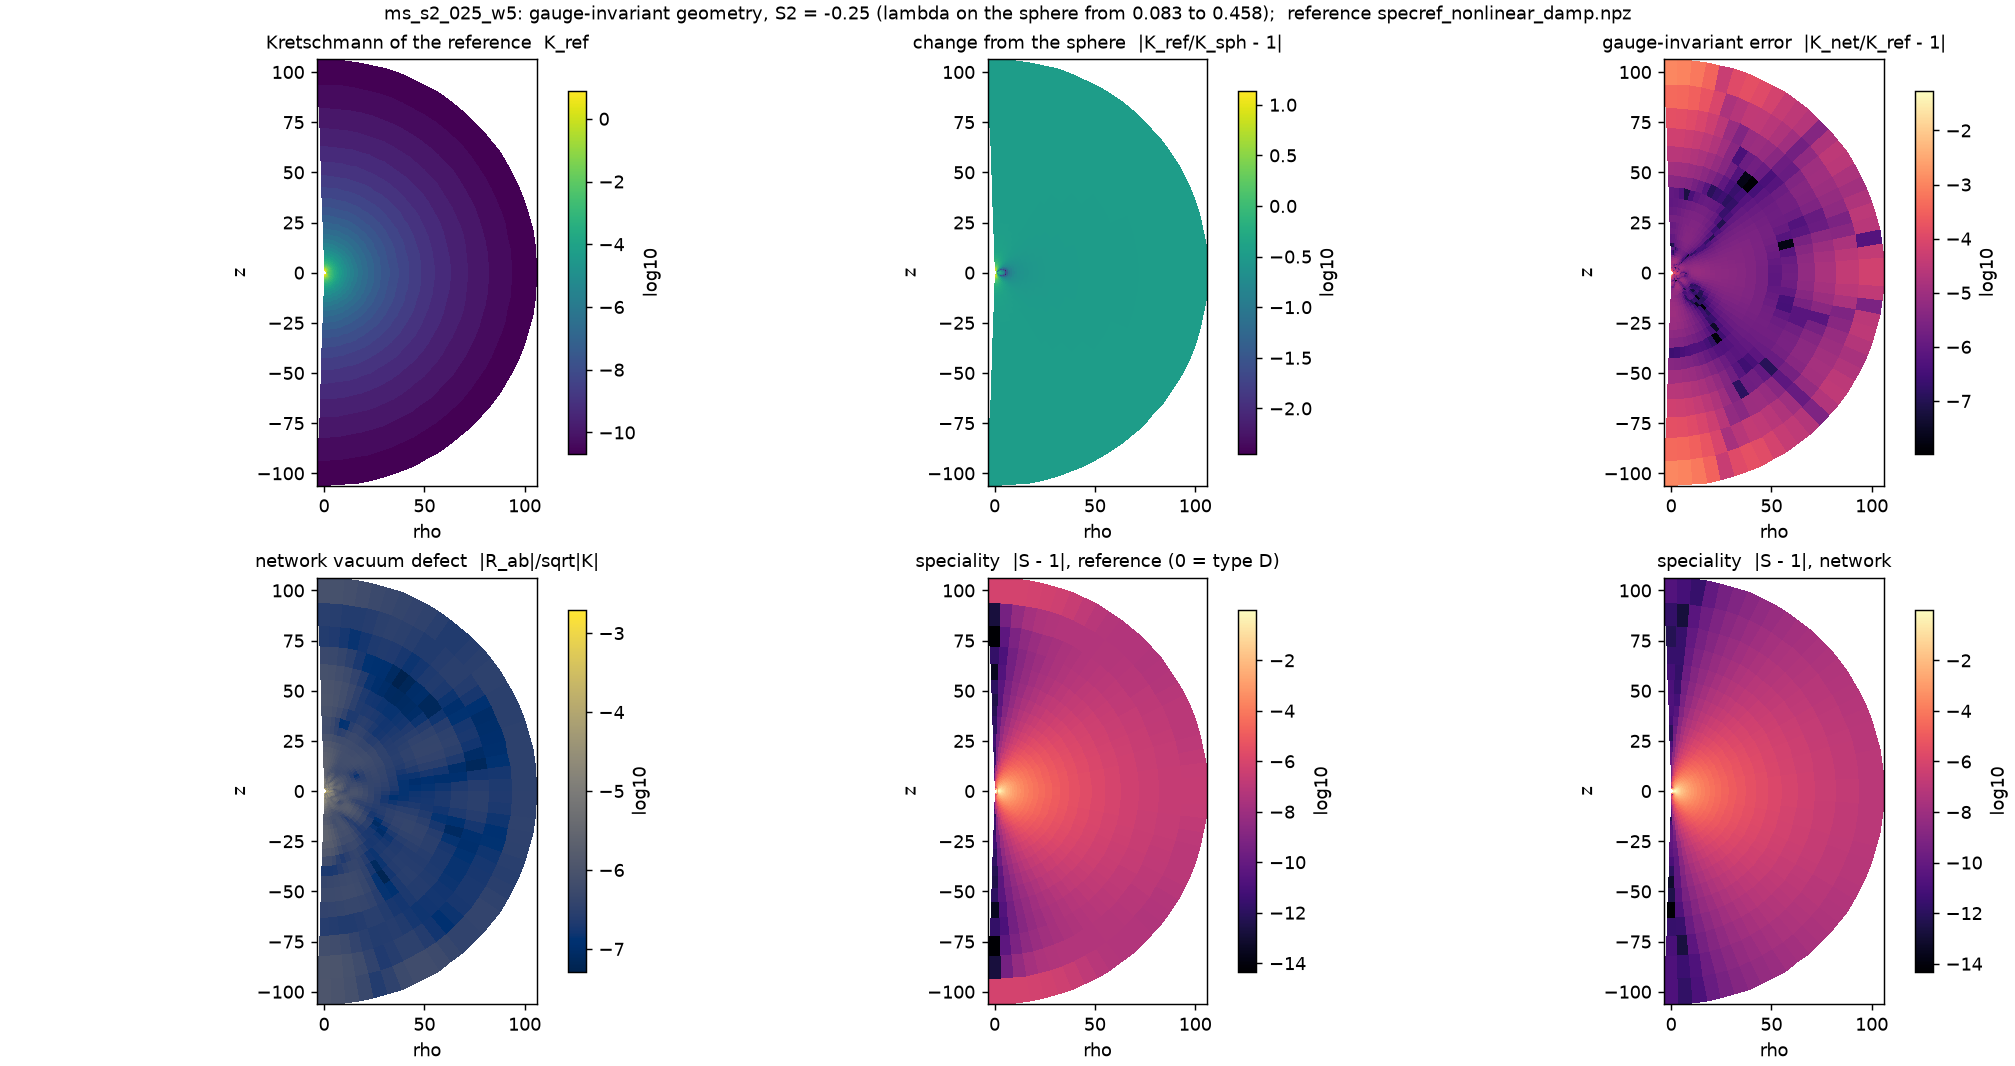
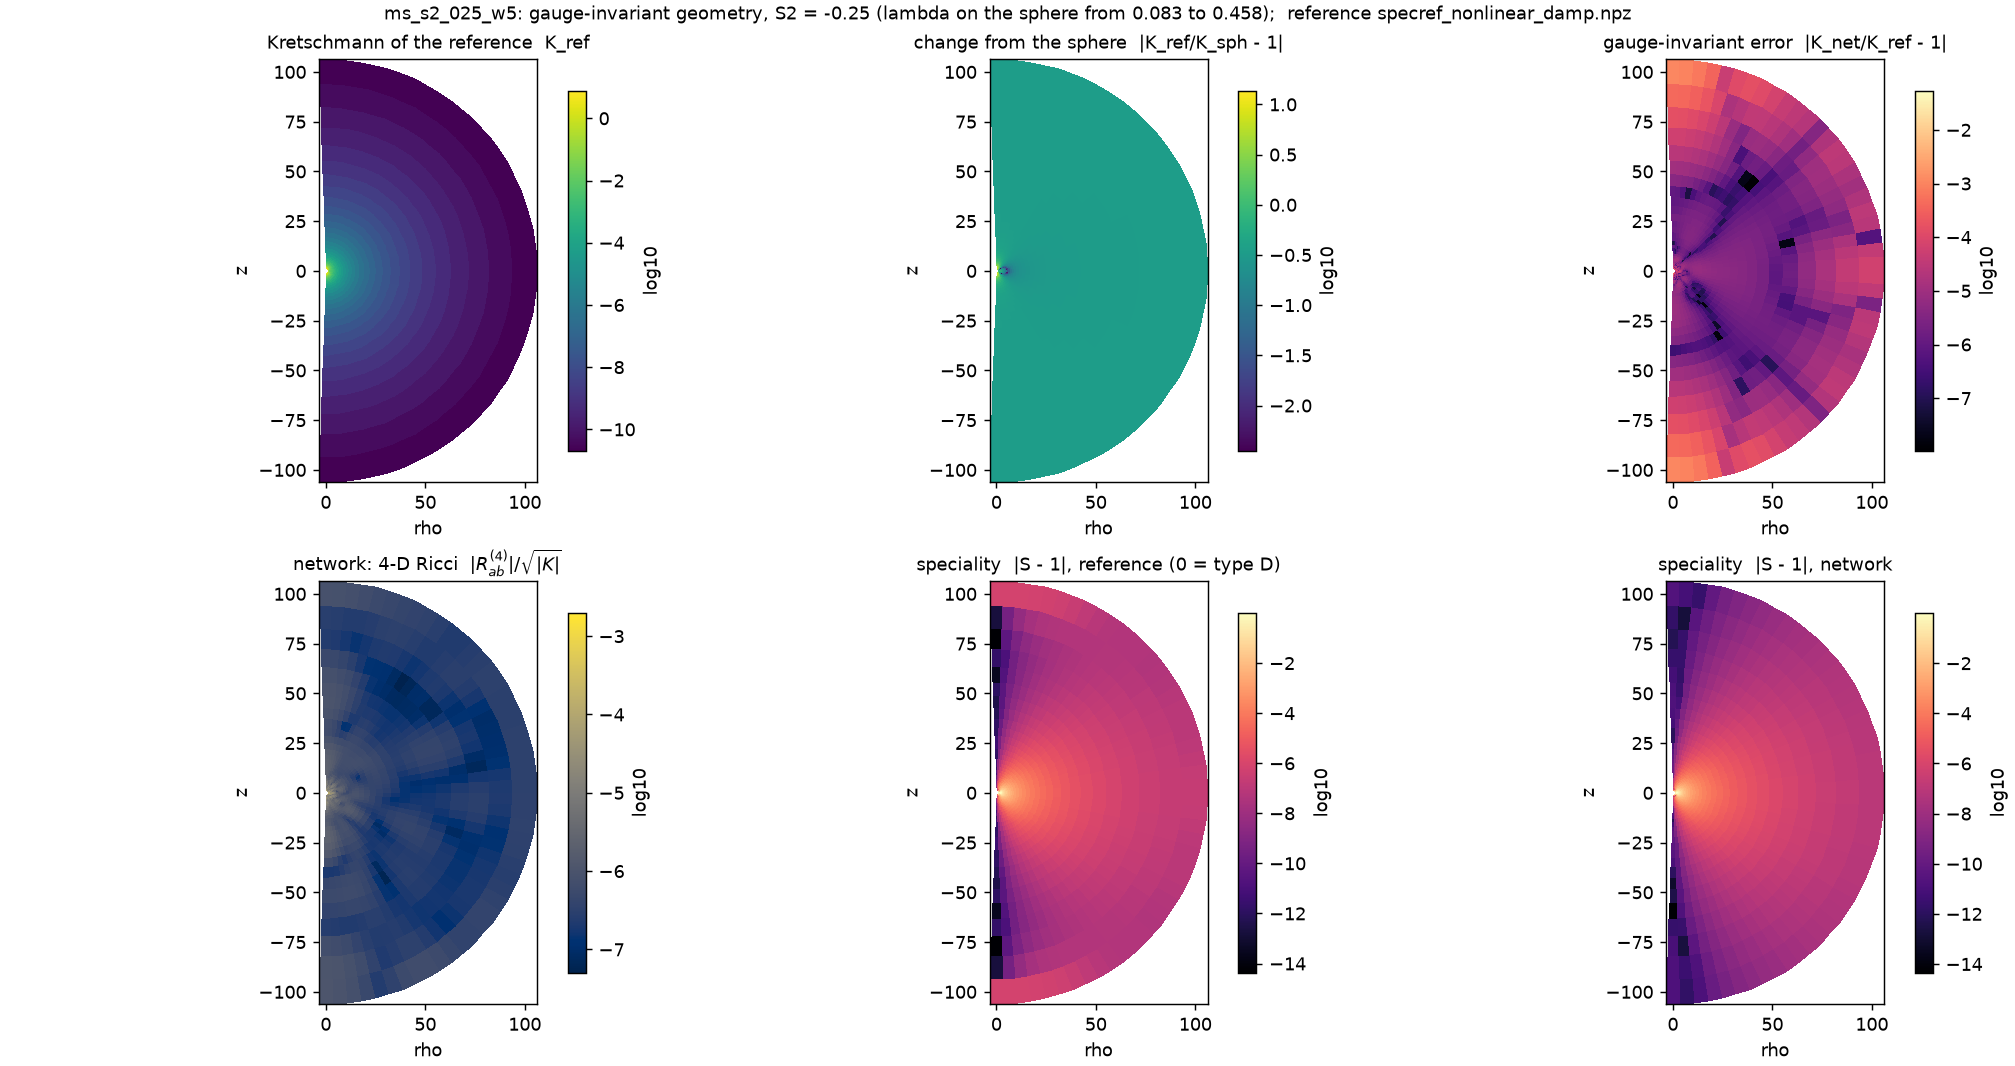
Geometry figures: the panel is the 4-D Ricci, |R^(4)_ab|/sqrt|K| (was 'vacuum defect')

diff --git a/Stationary/scripts/geometry_quadrupole.py b/Stationary/scripts/geometry_quadrupole.py
@@ -12,7 +12,9 @@ frame, as there.  Writes into the run directory:
     geometry_slice.png     (rho, z) slice, six panels: Kretschmann of the reference; its change
                            from the spherical background |K_ref/K_sph - 1| (what the quadrupole
                            does to the curvature); the gauge-invariant error |K_net/K_ref - 1|;
-                           the network's vacuum defect |R_ab|/sqrt|K|; the algebraic speciality
+                           the network's 4-D Ricci |R^(4)_ab|/sqrt|K| (the Ricci tensor of the static
+                           vacuum completion g = -lam dt^2 + h/lam, over the curvature scale; 0 for an
+                           exact solution); the algebraic speciality
                            |S - 1| of the reference and of the network (0 = type D; the sphere
                            is type D, the quadrupole is not)
     hawking_profile.png    m_H(rho) of the network, of the reference and of the spherical solution,
@@ -86,7 +88,7 @@ def main():
             (Kr, "Kretschmann of the reference  K_ref", "viridis"),
             (np.abs(Kr / Kb - 1.0), "change from the sphere  |K_ref/K_sph - 1|", "viridis"),
             (np.abs(Kn / Kr - 1.0), "gauge-invariant error  |K_net/K_ref - 1|", "magma"),
-            (put(net["vacuum_defect"]), "network vacuum defect  |R_ab|/sqrt|K|", "cividis"),
+            (put(net["vacuum_defect"]), r"network: 4-D Ricci  $|R^{(4)}_{ab}|/\sqrt{|K|}$", "cividis"),
             (put(ref["speciality"]), "speciality  |S - 1|, reference (0 = type D)", "magma"),
             (put(net["speciality"]), "speciality  |S - 1|, network", "magma"),
         ]

diff --git a/Stationary/stationary/geometry_figures.py b/Stationary/stationary/geometry_figures.py
@@ -156,7 +156,7 @@ def geometry_slice_figure(run_dir, out_png=None, n_r=48, n_theta=64, n_quad=200,
         (K_net, "Kretschmann  K_net  (log)", "viridis", True),
         (K_ex, "Kretschmann  K_exact  (log)", "viridis", True),
         (err, "gauge-invariant error  |K_net/K_exact - 1|", "magma", True),
-        (put(net["vacuum_defect"]), "vacuum defect  |R_ab|/sqrt|K|", "cividis", True),
+        (put(net["vacuum_defect"]), r"4-D Ricci  $|R^{(4)}_{ab}|/\sqrt{|K|}$", "cividis", True),
         (put(net["speciality"]), "algebraic speciality  |S - 1|   (0 = type D)", "magma", True),
         (put(np.abs(net["pontryagin"])), "Pontryagin  |C.C~|   (0 = static)", "magma", True),
     ]
